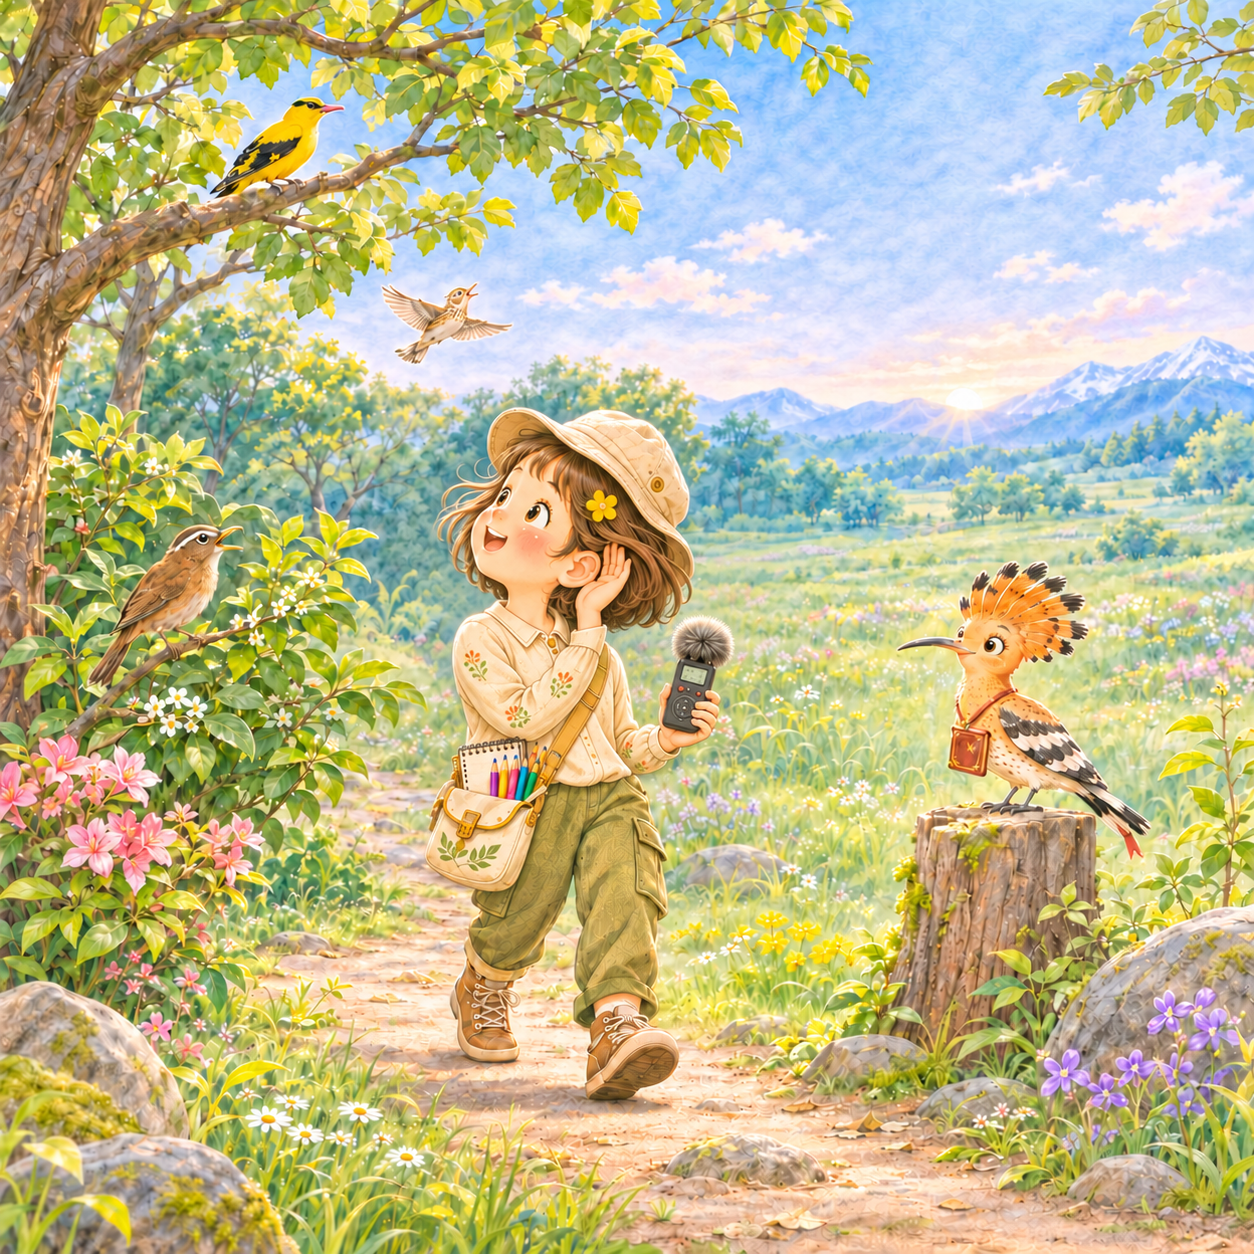
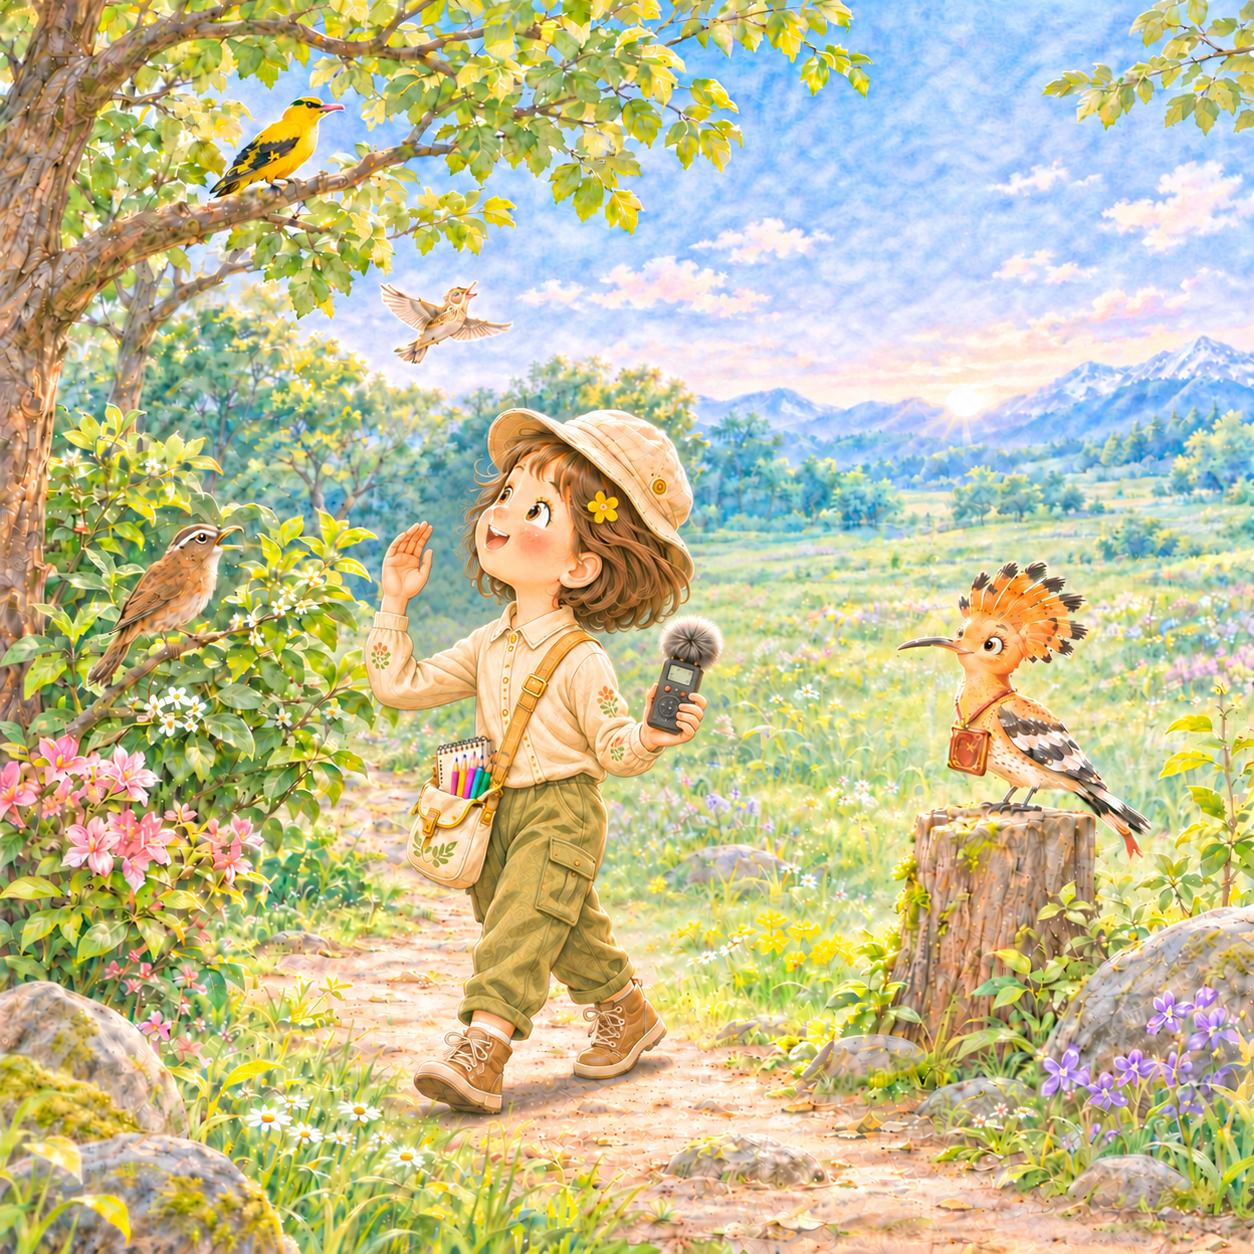
Turn P18 listening pose and raised hand toward the left

diff --git a/鸟类绘本/制图约束规范.md b/鸟类绘本/制图约束规范.md
@@ -33,7 +33,7 @@
 - 随身小布包，露出笔记本和彩铅。第二章起按情节使用便携录音机，避免无意复制出多台相同道具。
 - 录音机按[用户确认款与手部比例](制图参考/README.md)绘制：深灰小型竖式机身、一个圆形灰色防风毛罩、上方小屏、屏下小红键、下半部圆形控制区。P24标准原图保持不改；其他手持、桌面及包侧状态统一同款与实际比例，每景只一台，不改成双毛球、大音箱或无毛罩的另一款。
 - 衣服、鞋帽随天气、地面与活动变化。黄色雨靴不是永久标识；无雨水、泥地时不默认穿雨靴。
-- 观察时先确定一只具体目标鸟，再让头颈、下巴仰俯角与双眼瞳孔共同指向它的头或正在发生的动作，不能统一仰头看天空，也不能把羽羽或录音机误作目标。画画时看记录，听录音时可闭眼微笑。P9看丹顶鹤，P17近乎平视枝头夜莺，P18向左上看空中百灵，P19低头看近处黑水鸡，P30向左下看树根觅食鸟，P32近乎平视雄原鸡；以当前图中实际位置核对，不能只照抄抽象的“抬头观察”。
+- 观察时先确定一只具体目标鸟，再让头颈、下巴仰俯角与双眼瞳孔共同指向它的头或正在发生的动作，不能统一仰头看天空，也不能把羽羽或录音机误作目标。画画时看记录，听录音时可闭眼微笑。P9看丹顶鹤，P17近乎平视枝头夜莺，P18向左上看空中百灵，身体肩胸腰胯自然偏左，头边的手放在画面左侧、从同侧肩自然抬起，P19低头看近处黑水鸡，P30向左下看树根觅食鸟，P32近乎平视雄原鸡；以当前图中实际位置核对，不能只照抄抽象的“抬头观察”。
 
 ### 羽羽：戴胜鸟书精灵
 

diff --git a/鸟类绘本/正式制图剧本.md b/鸟类绘本/正式制图剧本.md
@@ -238,7 +238,7 @@
 
 ### P18｜清晨的合唱
 
-**画面建议：** 清晨，小满沿林缘草地小径前行，一手拢耳、一手举录音机，头颈与双眼一起转向左上方空中飞唱的百灵；百灵位于小满左上方开阔天空，不望向右侧羽羽或空白处。拢耳手四指轻弯形成浅杯形，拇指位于掌侧，不堵耳或与头发融合；举机手自然包握机身，允许指节合理遮挡，手腕与前臂顺接，不遮满屏幕、红键及麦克风。羽羽停在路旁木桩。画眉在灌丛、百灵在草地上空、黄鹂在树冠，分布于同一个有纵深的自然场景，不作分框展示。
+**画面建议：** 清晨，小满沿林缘草地小径前行，肩线、胸廓、腰胯和步态自然偏向画面左侧，不只转头；一只手从画面左侧肩膀自然抬到左侧头边，掌指轻弯成浅杯形、与脸留少量间隙，不横跨胸前摸右侧耳；另一只手在右侧腰胸附近握着录音机，头颈与双眼一起转向左上方空中飞唱的百灵；百灵位于小满左上方开阔天空，不望向右侧羽羽或空白处。拢耳手四指轻弯形成浅杯形，拇指位于掌侧，不堵耳或与头发融合；举机手自然包握机身，允许指节合理遮挡，手腕与前臂顺接，不遮满屏幕、红键及麦克风。羽羽停在路旁木桩。画眉在灌丛、百灵在草地上空、黄鹂在树冠，分布于同一个有纵深的自然场景，不作分框展示。
 
 **绘本文字：**
 

diff --git a/skills/childrens-picturebook-illustration/SKILL.md b/skills/childrens-picturebook-illustration/SKILL.md
@@ -117,6 +117,7 @@ Apply these constraints to this project. The user's latest confirmed correction 
 
 ## 人体比例、手指与接触关系（重点验收）
 
+- 用户指定身体转向时，同步调整肩线、胸廓、腰胯与必要的步态，不能只转头而保留相反朝向的躯干。手的位置先按画面左右明确，再检查其属于哪侧肩；拢耳手从同侧肩自然抬到头侧，不跨胸伸向对侧耳，也不误画成托腮或遮阳。鸟类P18身体偏向画面左侧，头边手也在画面左侧，另一手握确认款录音机。
 - **小满每只手的结构必须是四根手指加一根拇指，共五指。** 儿童卡通风格可以简化线条，但不能把人手简化成四指卡通手、连指手套或没有结构的肉团；不得出现多指、少指、融合、分叉、漂浮手指或重复手掌。
 - **五指结构不等于任何角度都必须看见五个指尖。** 侧面、握持、弯曲或遮挡可以使部分手指不可见，但可见轮廓、拇指位置和遮挡顺序必须合理。不得为了数齐五指而强行摊手、画成爪形，或把被遮挡的指头补到手背、手腕及错误一侧。
 - 手掌、手腕和前臂应连贯，左右手的拇指方向随朝向正确；掌背不能混淆，手腕不得异常扭折。手的大小符合5岁儿童比例，不用成人大手，也不画细长尖爪。

diff --git a/鸟类绘本/正式素材/README.md b/鸟类绘本/正式素材/README.md
@@ -74,7 +74,7 @@ P1为寻找提示；P37为观察记录（含本页百科）；P38献辞、P39封
[8 lines of base64/hex data omitted]
